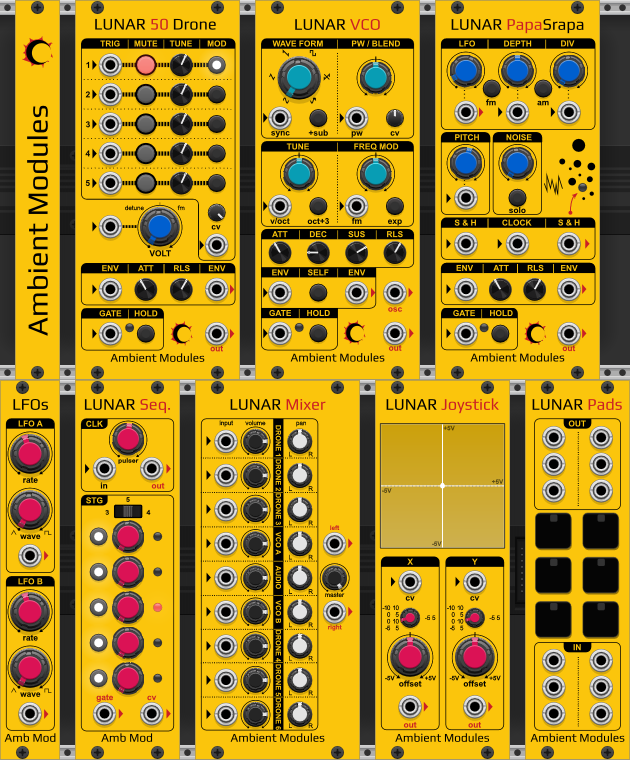
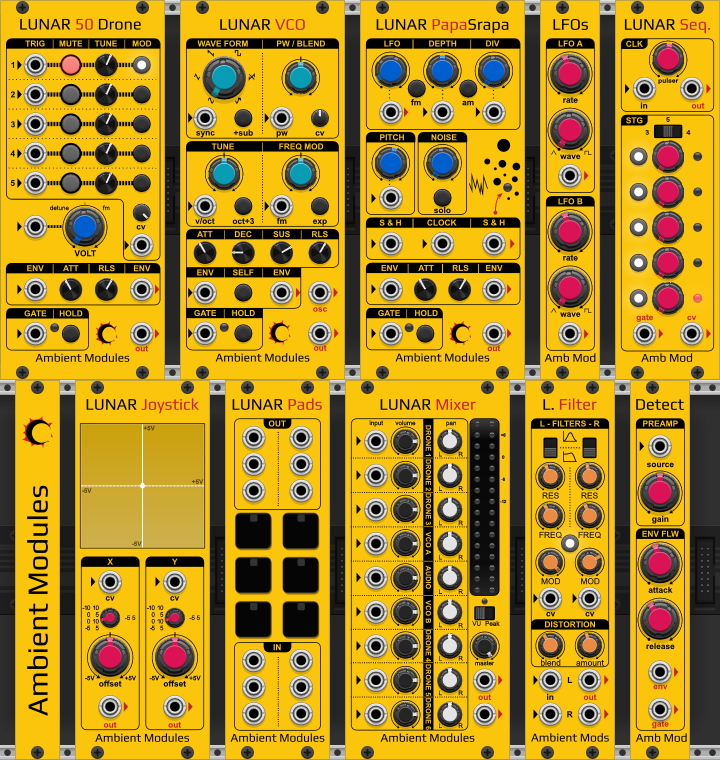
docs: add LunarFilter/LunarDetector docs, refresh screenshots and example patch
Document the new LunarFilter and LunarDetector modules, add the
LunarMixer meter-source context menu section, refresh the all-modules
theme screenshots and LunarMixer panel screenshot, and update the
Solar42-patch.vcv example patch (plus its screenshot) to match.

diff --git a/README.md b/README.md
@@ -13,10 +13,10 @@
 | [LunarLFO](#lunarlfo)             | Dual unipolar triangle/square LFO                  | LFOs                                       |
 | [LunarSequencer](#lunarsequencer) | 3-to-5-stage Buchla-inspired CV/gate sequencer     | Sequencer                                  |
 | [LunarMixer](#lunarmixer)         | 9-channel panoramic mixer with master level        | Mixer page                                 |
+| [LunarFilter](#lunarfilter)       | Dual 12dB Polivoks-style multimode filter + distortion | Filter block                          |
 | [LunarJoystick](#lunarjoystick)   | Draggable XY pad / CV position source, per-axis range + offset | Joystick block                  |
 | [LunarPads](#lunarpads)           | 6-pad momentary/latching gate source for the drone voices | "DRONE KEYS" pushbutton grid        |
 | [LunarDetector](#lunardetector)   | External-source preamp with envelope follower + gate detector | Contact mic + Envelope follower block |
-| [LunarFilter](#lunarfilter)       | Dual 12dB Polivoks-style multimode filter + distortion | Filter block                          |
 
 ## Table of Contents
 
@@ -32,10 +32,10 @@
 - [LunarLFO](#lunarlfo)
 - [LunarSequencer](#lunarsequencer)
 - [LunarMixer](#lunarmixer)
+- [LunarFilter](#lunarfilter)
 - [LunarJoystick](#lunarjoystick)
 - [LunarPads](#lunarpads)
 - [LunarDetector](#lunardetector)
-- [LunarFilter](#lunarfilter)
 
 ## Videos
 
@@ -82,7 +82,7 @@ Right-click any AmbientModules module to open its context menu. One entry is ide
 
 ![Theme submenu](docs/images/Menu_Themes.png)
 
-Some modules add extra entries of their own — those are documented under the module in question ([Lunar50Drone](#lunar50drone-context-menu), [LunarLFO](#lunarlfo-context-menu), [LunarSequencer](#lunarsequencer-context-menu), [LunarPads](#lunarpads-context-menu)). LunarVCO, LunarPapaSrapa, LunarMixer, LunarJoystick, LunarDetector, LunarFilter, and Blank have no module-specific entries.
+Some modules add extra entries of their own — those are documented under the module in question ([Lunar50Drone](#lunar50drone-context-menu), [LunarLFO](#lunarlfo-context-menu), [LunarSequencer](#lunarsequencer-context-menu), [LunarMixer](#lunarmixer-context-menu), [LunarPads](#lunarpads-context-menu)). LunarVCO, LunarPapaSrapa, LunarJoystick, LunarDetector, LunarFilter, and Blank have no module-specific entries.
 
 ## Shared conventions
 
@@ -296,9 +296,47 @@ The SOLAR 42F's 9-channel panoramic mixer page: one row per channel (In / Level 
 
 **LEDs**
 - **Meter L/R** (16 LEDs per channel, green/yellow/red) — stereo bargraph reading the Left/Right output level *after* Master level, 3dB per LED from -36dB up to +9dB: green from -36dB to -9dB, yellow from -6dB to 0dB, red from +3dB to +9dB (headroom/near-clip warning). Ballistics follow the VU/Peak switch above.
+- **Meter source** (blue, standalone) — lit when a [LunarFilter](#lunarfilter) is patched directly to the right: the meter above then shows *its* output instead of the Mixer's own (see [Context menu](#lunarmixer-context-menu) below to force it back to the Mixer's output). Unlit whenever nothing is adjacent, or the module to the right isn't a LunarFilter.
+
+<a id="lunarmixer-context-menu"></a>
+**Context menu**
+- **Meter shows** — only appears when a LunarFilter is patched directly to the right: *Filter output (adjacent)* (default) or *Mixer output*, to force the meter back to the Mixer's own level even with a Filter attached.
+
+![LunarMixer Meter shows submenu](docs/images/LunarMixer_Menu_MeterShows.png)
 
 **Patch ideas**
 - Feed [Lunar50Drone](#lunar50drone), [LunarVCO](#lunarvco) (into VCO A and VCO B), and [LunarPapaSrapa](#lunarpapasrapa) (into Drone 3 and Drone 6) into their matching channels here for one shared stereo output with independent level/pan per voice.
+- Patch [LunarFilter](#lunarfilter) directly to the right for the hardware's Mixer → Filter chain, and let the meter automatically switch to showing the Filter's (post-distortion) output.
+
+## LunarFilter
+
+![LunarFilter panel](docs/images/LunarFilter.png)
+
+Reimplements the SOLAR 42F's "FILTER" block: two independent 12dB Polivoks-style multimode (Low-pass/Band-pass) filters, meant to follow [LunarMixer](#lunarmixer)'s stereo output, plus a shared distortion stage — same chain as the real hardware (Mixer → Dual filter → Distortion).
+
+The real hardware only exposes one CV input (Filter L's frequency only); this module adds a second, fully independent CV/amount pair for Filter R. With Link off, CV L/MOD L drives Filter L's frequency and CV R/MOD R drives Filter R's, completely independently. With Link on, both sum onto Filter L's frequency instead (Filter R's own Frequency knob and its CV R contribution are bypassed, following Filter L's effective frequency as usual). Resonance and the Low-pass/Band-pass switch always stay independent per filter, whether Link is on or not — confirmed against Elta Music's own demo videos of the hardware.
+
+**Knobs**
+- **Frequency L/R** — filter cutoff, 20Hz to 20kHz. Filter R's Frequency knob is bypassed while Link is on.
+- **Resonance L/R** — always independent, even with Link on. High resonance can self-oscillate; the filter's feedback path is soft-clipped so it settles at a stable, bounded amplitude rather than blowing up.
+- **Type L/R** — Low-pass or Band-pass, always independent, even with Link on.
+- **CV L/R amount** — depth of CV L/CV R's effect on frequency, independent per side (see Inputs below for how they combine under Link).
+- **Distortion blend** — crossfades between the clean filtered signal and the distorted one.
+- **Distortion amount** — drive into the distortion stage's soft clipper.
+- **Link** — Filter R's effective frequency follows Filter L's (see above) instead of its own Frequency knob.
+
+**Inputs**
+- **In L/R** — stereo audio input.
+- **CV L** — modulates Filter L's frequency (always), scaled by CV L amount.
+- **CV R** — modulates Filter R's frequency while Link is off, scaled by CV R amount; while Link is on, sums onto Filter L's frequency instead (which Filter R then follows, same as always under Link) — still scaled by its own CV R amount knob either way.
+
+**Outputs**
+- **Out L/R** — stereo output, after both filters and the shared distortion stage.
+
+**Patch ideas**
+- Feed [LunarMixer](#lunarmixer)'s Left/Right outputs directly into In L/R for the hardware's full Mixer → Filter chain.
+- Turn Link on and patch a slow [LunarLFO](#lunarlfo) into CV L or CV R for a filter sweep that moves both channels together.
+- Turn Link off and patch a MIDI CC (via a MIDI-to-CV module) into CV L and [LunarLFO](#lunarlfo) into CV R for two independently modulated filter cutoffs.
 
 ## LunarJoystick
 
@@ -370,34 +408,4 @@ Reimplements the SOLAR 42F's "CONTACT MIC + ENVELOPE FOLLOWER" block: a preamp, 
 
 **Patch ideas**
 - Feed a contact mic, guitar, or any line-level source into In, then use Gate to trigger [Lunar50Drone](#lunar50drone) or [LunarPapaSrapa](#lunarpapasrapa)'s Gate input and Envelope to modulate a filter or VCA elsewhere in the patch.
-
-## LunarFilter
-
-![LunarFilter panel](docs/images/LunarFilter.png)
-
-Reimplements the SOLAR 42F's "FILTER" block: two independent 12dB Polivoks-style multimode (Low-pass/Band-pass) filters, meant to follow [LunarMixer](#lunarmixer)'s stereo output, plus a shared distortion stage — same chain as the real hardware (Mixer → Dual filter → Distortion).
-
-The real hardware only exposes one CV input (Filter L's frequency only); this module adds a second, fully independent CV/amount pair for Filter R. With Link off, CV L/MOD L drives Filter L's frequency and CV R/MOD R drives Filter R's, completely independently. With Link on, both sum onto Filter L's frequency instead (Filter R's own Frequency knob and its CV R contribution are bypassed, following Filter L's effective frequency as usual). Resonance and the Low-pass/Band-pass switch always stay independent per filter, whether Link is on or not — confirmed against Elta Music's own demo videos of the hardware.
-
-**Knobs**
-- **Frequency L/R** — filter cutoff, 20Hz to 20kHz. Filter R's Frequency knob is bypassed while Link is on.
-- **Resonance L/R** — always independent, even with Link on. High resonance can self-oscillate; the filter's feedback path is soft-clipped so it settles at a stable, bounded amplitude rather than blowing up.
-- **Type L/R** — Low-pass or Band-pass, always independent, even with Link on.
-- **CV L/R amount** — depth of CV L/CV R's effect on frequency, independent per side (see Inputs below for how they combine under Link).
-- **Distortion blend** — crossfades between the clean filtered signal and the distorted one.
-- **Distortion amount** — drive into the distortion stage's soft clipper.
-- **Link** — Filter R's effective frequency follows Filter L's (see above) instead of its own Frequency knob.
-
-**Inputs**
-- **In L/R** — stereo audio input.
-- **CV L** — modulates Filter L's frequency (always), scaled by CV L amount.
-- **CV R** — modulates Filter R's frequency while Link is off, scaled by CV R amount; while Link is on, sums onto Filter L's frequency instead (which Filter R then follows, same as always under Link) — still scaled by its own CV R amount knob either way.
-
-**Outputs**
-- **Out L/R** — stereo output, after both filters and the shared distortion stage.
-
-**Patch ideas**
-- Feed [LunarMixer](#lunarmixer)'s Left/Right outputs directly into In L/R for the hardware's full Mixer → Filter chain.
-- Turn Link on and patch a slow [LunarLFO](#lunarlfo) into CV L or CV R for a filter sweep that moves both channels together.
-- Turn Link off and patch a MIDI CC (via a MIDI-to-CV module) into CV L and [LunarLFO](#lunarlfo) into CV R for two independently modulated filter cutoffs.
 
